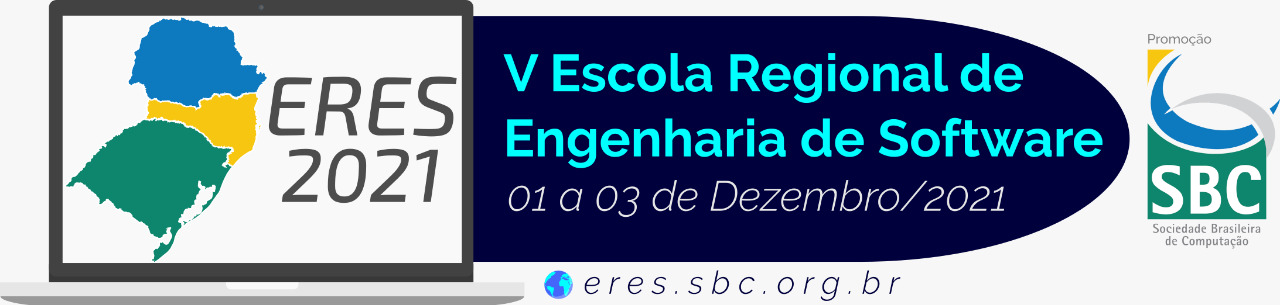
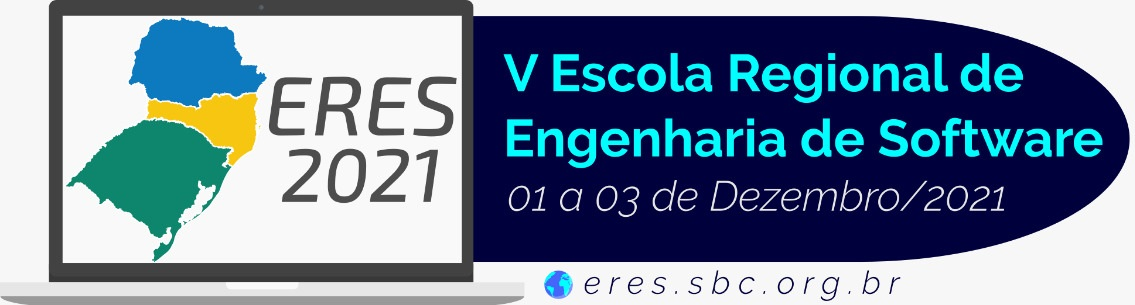
rt

diff --git a/keynotes.html b/keynotes.html
@@ -33,8 +33,12 @@
                 </ul>
             </nav>
 			
-            <div id="logo">
-				<img src="./images/header.jpeg">
+            <div >				
+				<table col="1" rows="1" class="center" border="0" max-width="50%" vertical-align="center">
+					<tr>
+						<td align="center" ><img src="./images/header.jpeg" width="35%" height="35%" > &nbsp;&nbsp;&nbsp;&nbsp; <a href="http://www.sbc.org.br" target="_blank"><img src="./images/logo_sbc.jpg" ></a></td>
+					</tr>
+				</table>
 			</div>
 			
             <div id="global">
@@ -79,5 +83,13 @@
                 </div> 
             </div>          
         </header>
+		
+		<footer>
+            <p>
+			
+			<a href="http://www.sbc.org.br" target="_blank"><img src="./images/logo_sbc.jpg" ></a><br>
+                &copy; Copyright 2021 ERES
+            </p>
+        </footer>
     </body>
 </html>

diff --git a/submission.html b/submission.html
@@ -30,8 +30,12 @@
                 </ul>
             </nav>
 
-            <div id="logo">
-				<img src="./images/header.jpeg" >
+            <div >				
+				<table col="1" rows="1" class="center" border="0" max-width="50%" vertical-align="center">
+					<tr>
+						<td align="center" ><img src="./images/header.jpeg" width="35%" height="35%" > &nbsp;&nbsp;&nbsp;&nbsp; <a href="http://www.sbc.org.br" target="_blank"><img src="./images/logo_sbc.jpg" ></a></td>
+					</tr>
+				</table>
 			</div>
 			
         </header>
@@ -140,7 +144,10 @@
 
         <footer>
             <p>
-                &copy; Copyright 2021 ERES
+                
+				<a href="http://www.sbc.org.br" target="_blank"><img src="./images/logo_sbc.jpg" ></a><br>
+				
+				&copy; Copyright 2021 ERES
             </p>
         </footer>
 

diff --git a/edicoes.html b/edicoes.html
@@ -29,8 +29,12 @@
                 </ul>
             </nav>
 			
-            <div id="logo">
-				<img src="./images/header.jpeg">
+            <div >				
+				<table col="1" rows="1" class="center" border="0" max-width="50%" vertical-align="center">
+					<tr>
+						<td align="center" ><img src="./images/header.jpeg" width="35%" height="35%" > &nbsp;&nbsp;&nbsp;&nbsp; <a href="http://www.sbc.org.br" target="_blank"><img src="./images/logo_sbc.jpg" ></a></td>
+					</tr>
+				</table>
 			</div>
 			
         </header>
@@ -116,6 +120,8 @@
 
         <footer>
             <p>
+			
+			<a href="http://www.sbc.org.br" target="_blank"><img src="./images/logo_sbc.jpg" ></a><br>
                 &copy; Copyright 2021 ERES
             </p>
         </footer>

diff --git a/committee.html b/committee.html
@@ -29,8 +29,12 @@
                 </ul>
             </nav>
 
-            <div id="logo">
-				<img src="./images/header.jpeg">
+            <div >				
+				<table col="1" rows="1" class="center" border="0" max-width="50%" vertical-align="center">
+					<tr>
+						<td align="center" ><img src="./images/header.jpeg" width="35%" height="35%" > &nbsp;&nbsp;&nbsp;&nbsp; <a href="http://www.sbc.org.br" target="_blank"><img src="./images/logo_sbc.jpg" ></a></td>
+					</tr>
+				</table>
 			</div>
 			
         </header>
@@ -176,6 +180,8 @@
 
         <footer>
             <p>
+			
+			<a href="http://www.sbc.org.br" target="_blank"><img src="./images/logo_sbc.jpg" ></a><br>
                 &copy; Copyright 2021 ERES
             </p>
         </footer>

diff --git a/index.html b/index.html
@@ -30,8 +30,12 @@
                 </ul>
             </nav>
 
-            <div id="logo">
-				<img src="./images/header.jpeg" >
+            <div >				
+				<table col="1" rows="1" class="center" border="0" max-width="50%" vertical-align="center">
+					<tr>
+						<td align="center" ><img src="./images/header.jpeg" width="35%" height="35%" > &nbsp;&nbsp;&nbsp;&nbsp; <a href="http://www.sbc.org.br" target="_blank"><img src="./images/logo_sbc.jpg" ></a></td>
+					</tr>
+				</table>
 			</div>
 			
         </header>
@@ -63,6 +67,8 @@
 
         <footer>
             <p>
+			
+			<a href="http://www.sbc.org.br" target="_blank"><img src="./images/logo_sbc.jpg" ></a><br>
                 &copy; Copyright 2021 ERES
             </p>
         </footer>

diff --git a/anais.html b/anais.html
@@ -29,8 +29,12 @@
                 </ul>
             </nav>
 			
-            <div id="logo">
-				<img src="./images/header.jpeg">
+            <div >				
+				<table col="1" rows="1" class="center" border="0" max-width="50%" vertical-align="center">
+					<tr>
+						<td align="center" ><img src="./images/header.jpeg" width="35%" height="35%" > &nbsp;&nbsp;&nbsp;&nbsp; <a href="http://www.sbc.org.br" target="_blank"><img src="./images/logo_sbc.jpg" ></a></td>
+					</tr>
+				</table>
 			</div>
 			
         </header>
@@ -118,6 +122,7 @@
 
         <footer>
             <p>
+			<a href="http://www.sbc.org.br" target="_blank"><img src="./images/logo_sbc.jpg" ></a><br>
                 &copy; Copyright 2021 ERES
             </p>
         </footer>

diff --git a/css/logo.css b/css/logo.css
@@ -9,3 +9,8 @@
 
     border-radius: 1rem;
 }
+
+.center {
+  margin-left: auto;
+  margin-right: auto;
+}
